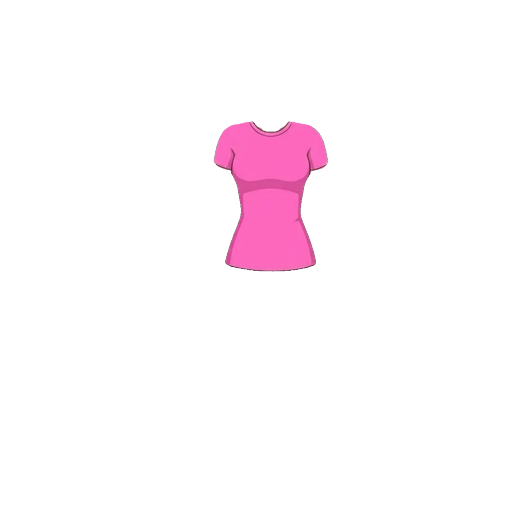
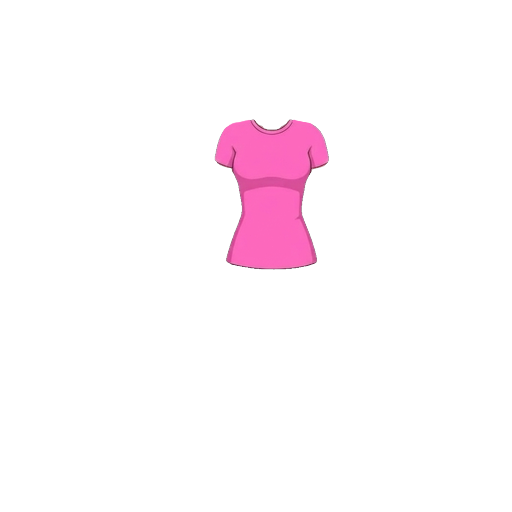
Added exercise demos and changed seed data

diff --git a/android/app/src/main/java/com/jve/repsup/utils/ExerciseDemo.java b/android/app/src/main/java/com/jve/repsup/utils/ExerciseDemo.java
@@ -37,6 +37,30 @@ public final class ExerciseDemo {
         if (name.contains("bench press")) {
             return R.drawable.bench_press_avatar;
         }
+        if (name.contains("walking lunge")) {
+            return R.drawable.walking_lunges_avatar;
+        }
+        if (name.contains("bulgarian")) {
+            return R.drawable.bulgarian_split_squats_avatar;
+        }
+        if (name.contains("barbell hip thrust")) {
+            return R.drawable.barbell_hip_thrusts_avatar;
+        }
+        // Exact match: the library also has Close-Grip and Reverse-Grip Lat
+        // Pulldown, which are different exercises and keep the placeholder.
+        if (name.equals("lat pulldown")) {
+            return R.drawable.lat_pulldown_avatar;
+        }
+        if (name.contains("one-arm dumbbell row")) {
+            return R.drawable.one_arm_dumbbell_row_avatar;
+        }
+        // Exact match so Barbell, Cable, Preacher etc. curls do not get this demo.
+        if (name.equals("bicep curls")) {
+            return R.drawable.bicep_curls_avatar;
+        }
+        if (name.contains("dumbbell squat")) {
+            return R.drawable.dumbbell_squats_avatar;
+        }
 
         return R.drawable.ic_exercise_placeholder;
     }
